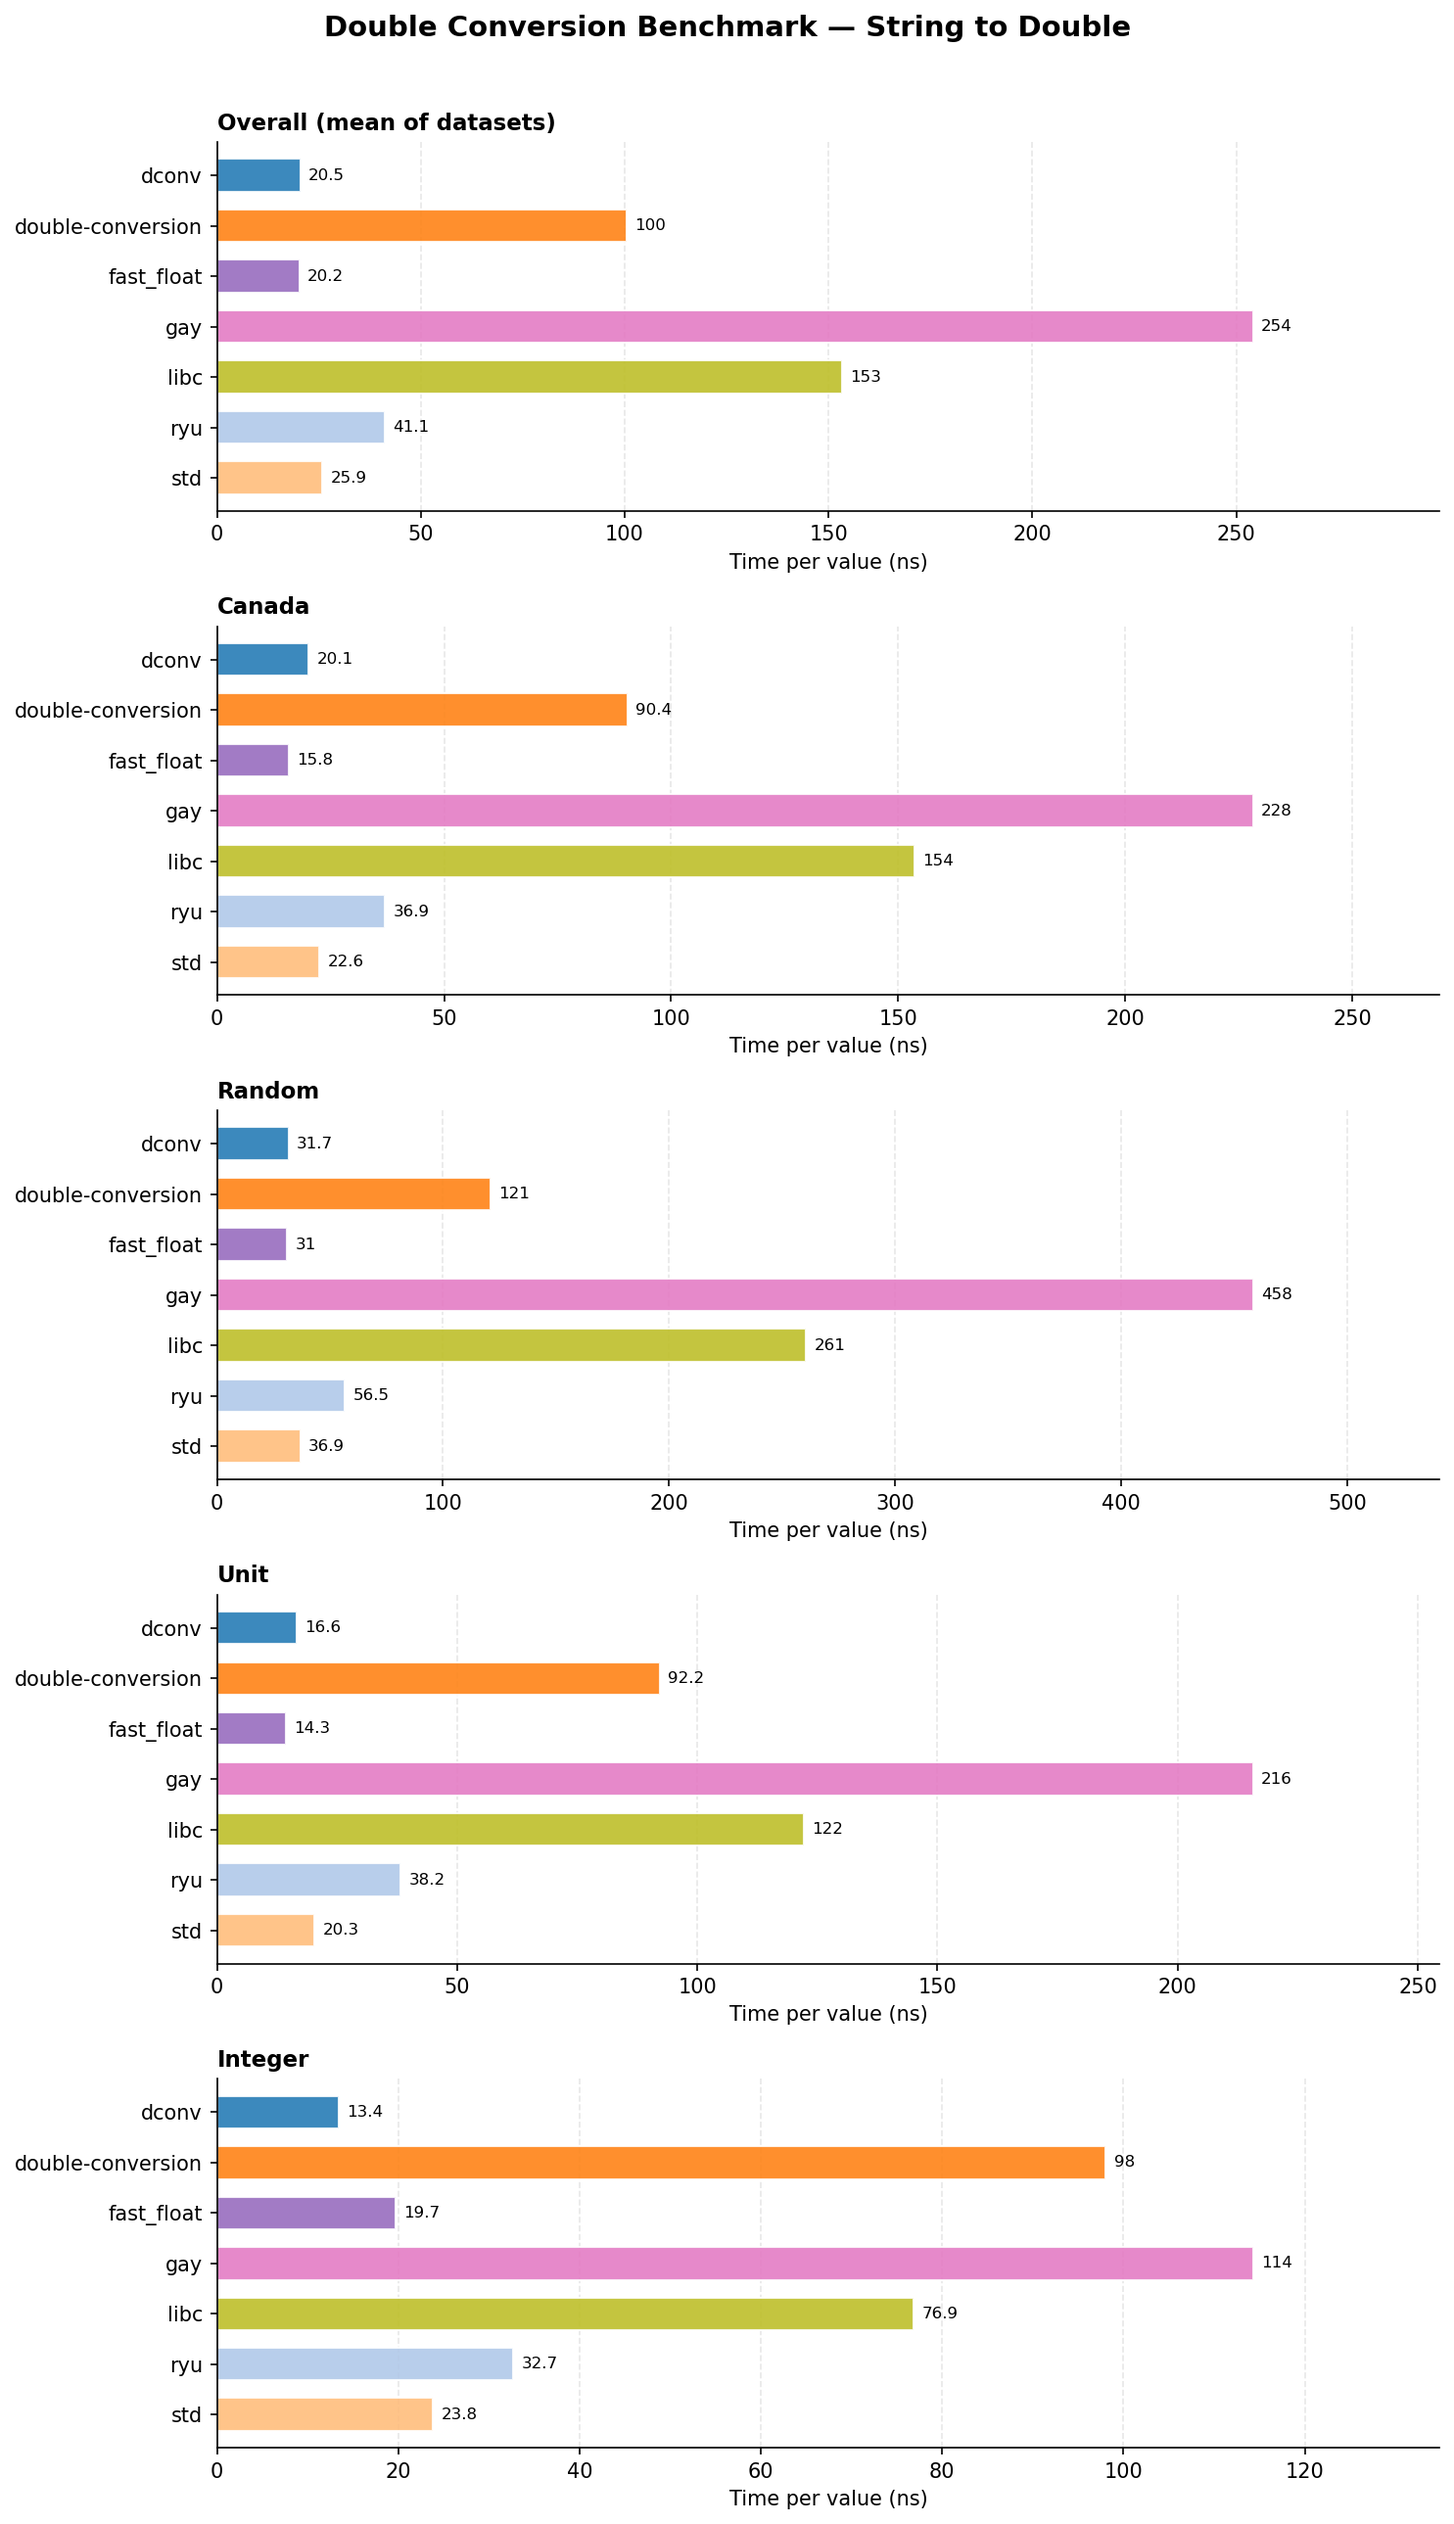
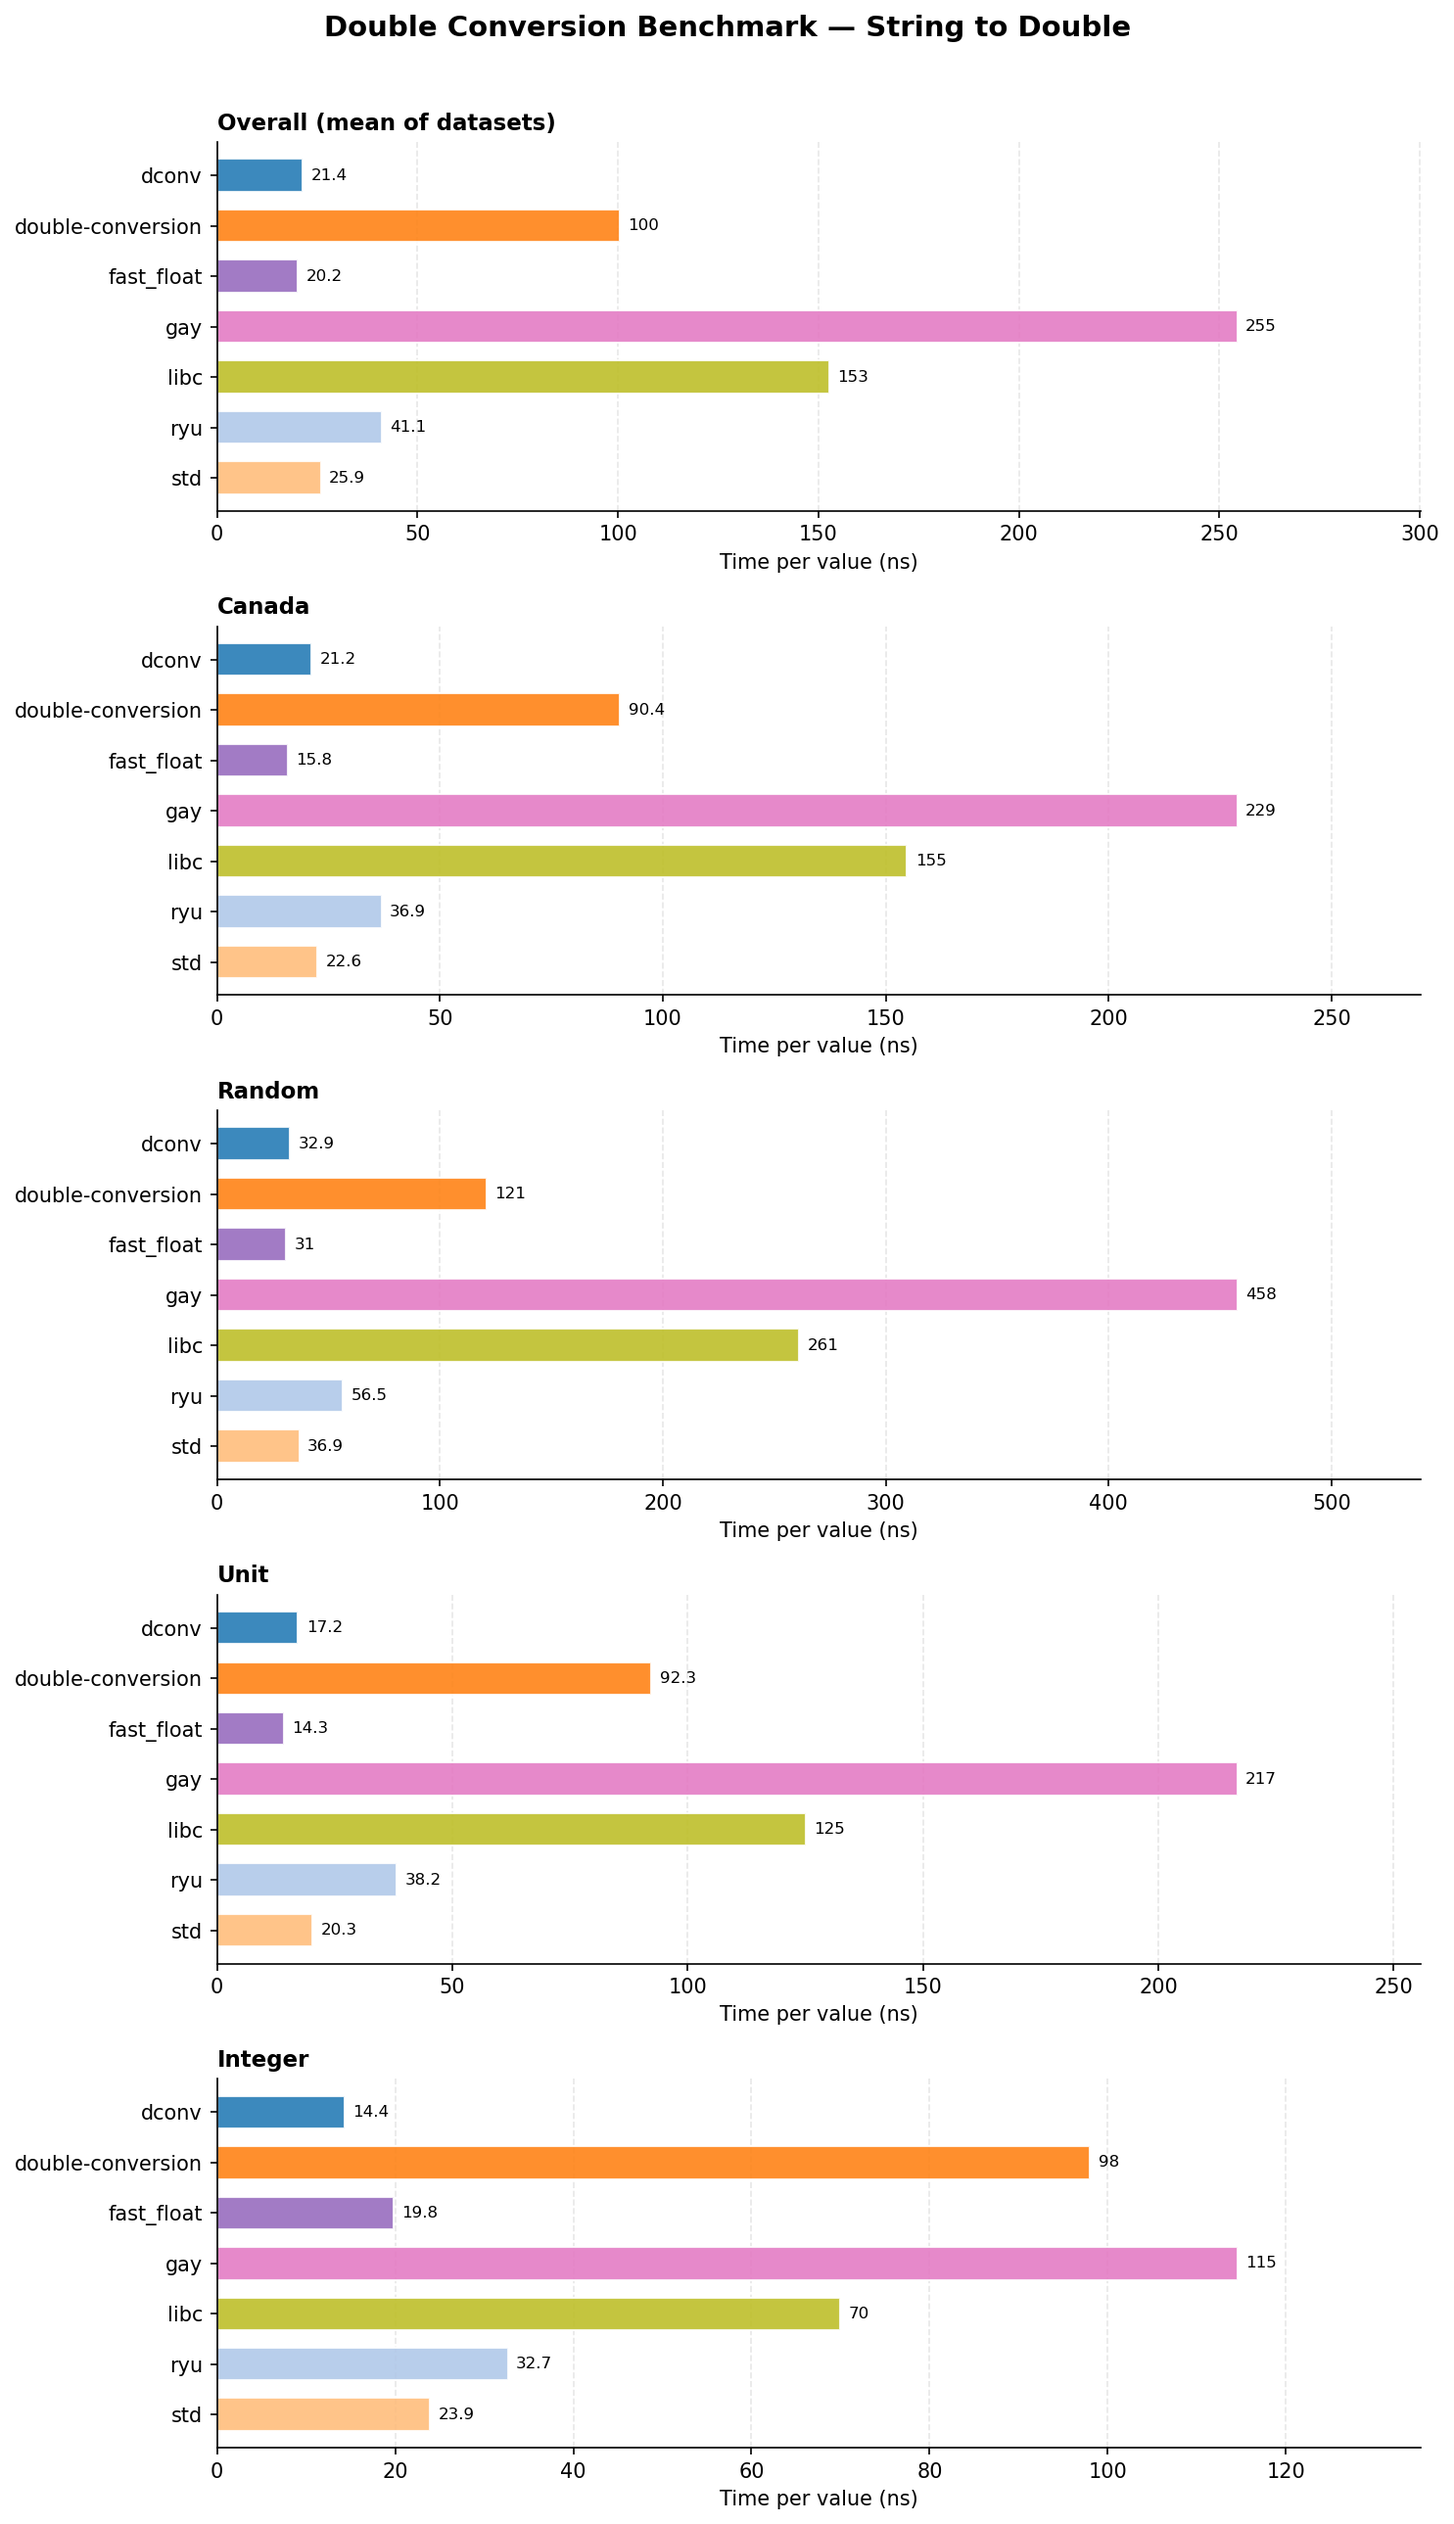
Use dconv 2.0.0

diff --git a/README.md b/README.md
@@ -24,10 +24,10 @@ Largely inspired by [dtoa-benchmark](https://github.com/miloyip/dtoa-benchmark) 
 
 | Library | Version | Dtoa | Atod | Algorithm |
 |---------|---------|:----:|:----:|-----------|
-| [dconv](https://github.com/joinframework/dconv) | v1.2.3 | ✓ | ✓ | Schubfach / Eisel-Lemire with strtod fallback |
-| [dconv](https://github.com/joinframework/dconv) grisu | v1.2.3 | ✓ | | Grisu |
-| [dconv](https://github.com/joinframework/dconv) grisu2 | v1.2.3 | ✓ | | Grisu2 |
-| [dconv](https://github.com/joinframework/dconv) grisu3 | v1.2.3 | ✓ | | Grisu3 with `std::to_chars` fallback |
+| [dconv](https://github.com/joinframework/dconv) | v2.0.0 | ✓ | ✓ | Schubfach / Eisel-Lemire with strtod fallback |
+| [dconv](https://github.com/joinframework/dconv) grisu | v2.0.0 | ✓ | | Grisu |
+| [dconv](https://github.com/joinframework/dconv) grisu2 | v2.0.0 | ✓ | | Grisu2 |
+| [dconv](https://github.com/joinframework/dconv) grisu3 | v2.0.0 | ✓ | | Grisu3 with `std::to_chars` fallback |
 | [double-conversion](https://github.com/google/double-conversion) | v3.4.0 | ✓ | ✓ | Grisu3 with bignum fallback / Clinger with bignum fallback |
 | [Drachennest](https://github.com/abolz/Drachennest) grisu3 | e6714a3 | ✓ | | Grisu3 with Dragon4 fallback |
 | [Drachennest](https://github.com/abolz/Drachennest) schubfach | e6714a3 | ✓ | | Schubfach |
@@ -191,11 +191,11 @@ All figures below come from a single run on this machine (3 repetitions, each in
 | Frequency | 3700 MHz, `performance` governor, boost disabled |
 | Caches | L1d 8 × 32 KiB, L2 8 × 512 KiB, L3 2 × 8 MiB |
 | RAM | 16 GiB |
-| OS | Ubuntu 26.04.1 LTS, kernel 7.0.0-38-generic |
+| OS | Ubuntu 26.04.1 LTS, kernel 7.0.0-43-generic |
 | Toolchain | GCC 15.2.0, glibc 2.43, libstdc++ runtime from GCC 16 (6.0.35), CMake 4.2.3 |
 | Compile flags | `-O3 -DNDEBUG -march=native -std=c++20` |
 | Pinning | `taskset -c 2` (physical core, SMT sibling 10) |
-| Conditions | idle machine, 3 repetitions, run started once the CPU was back to its rated clock; spread across repetitions below 2% for 429 of 462 benchmarks and below 5% for 449; outliers are Milo Yip's Grisu2 (up to 14% on `Integer`) and dconv on short `Digits` datasets (up to 8%) |
+| Conditions | idle machine, 3 repetitions, run started once the CPU was back to its rated clock; spread across repetitions below 2% for 422 of 462 benchmarks and below 5% for 442; outliers are dconv Grisu3 (up to 13% on `Canada`), dconv on the `Digits04` to `Digits08` datasets (up to 11%), `std::to_chars` and Milo Yip's Grisu2 (up to 10%) |
 
 ## Results
 
@@ -207,7 +207,7 @@ Measured on a development machine. Re-run `scripts/run_bench.sh` to reproduce on
 
 ![Dtoa by digits](plots/digits_dtoa.png)
 
-**Dragonbox** leads at 25.1 ns per value, followed by **dconv** (28.9 ns, Schubfach), **Drachennest Schubfach** (29.3 ns) and **Ryu** (32.2 ns): these recent algorithms compute the shortest decimal significand with a few 128-bit multiplications, then print it, and their time barely depends on the number of digits (29.4 ns for one digit and 39.1 ns for seventeen with dconv). dconv is the fastest on integers (15.1 ns). **dconv Grisu** (34.1 ns) prints up to 18 digits without looking for the shortest output. **fmt** (41.2 ns) uses Dragonbox but pays for its formatting layer. **Drachennest Grisu3** (46.3 ns) is fast on integers (17.8 ns) but slower on random exponents. **std** (`std::to_chars`, 51.6 ns), **Tejú Jaguá** (56.6 ns), **dconv Grisu2** (59.6 ns) and **dconv Grisu3** (63.1 ns) form the next group; Grisu2 and Grisu3 generate the digits one by one (35 ns for one digit, about 70 ns for seventeen). **Milo Yip**'s Grisu2 (74.6 ns) and **double-conversion** (92.9 ns) follow. **libc** (`snprintf`, 422 ns) and **David Gay**'s `dtoa.c` (766 ns, up to 1.5 µs on random exponents, bignum arithmetic) are an order of magnitude slower.
+**Dragonbox** leads at 25.1 ns per value, followed by **dconv** (28.9 ns, Schubfach), **Drachennest Schubfach** (29.3 ns) and **Ryu** (32.2 ns): these recent algorithms compute the shortest decimal significand with a few 128-bit multiplications, then print it, and their time barely depends on the number of digits (29.4 ns for one digit and 38.2 ns for seventeen with dconv). dconv is the fastest on integers (15.1 ns). **dconv Grisu** (33.7 ns) prints up to 18 digits without looking for the shortest output. **fmt** (41.8 ns) uses Dragonbox but pays for its formatting layer. **Drachennest Grisu3** (46.3 ns) is fast on integers (17.6 ns) but slower on random exponents. **std** (`std::to_chars`, 51.7 ns), **dconv Grisu2** (58.8 ns), **dconv Grisu3** (60.8 ns) and **Tejú Jaguá** (63.5 ns) form the next group; Grisu2 and Grisu3 generate the digits one by one (35 ns for one digit, about 70 ns for seventeen). **Milo Yip**'s Grisu2 (73.5 ns) and **double-conversion** (91.8 ns) follow. **libc** (`snprintf`, 424 ns) and **David Gay**'s `dtoa.c` (774 ns, up to 1.5 µs on random exponents, bignum arithmetic) are an order of magnitude slower.
 
 Tejú Jaguá only provides the decimal significand and exponent: its figure includes the formatting written in its adapter, a plain division loop, and is likely pessimistic for the algorithm itself.
 
@@ -217,7 +217,9 @@ Tejú Jaguá only provides the decimal significand and exponent: its figure incl
 
 ![Atod by digits](plots/digits_atod.png)
 
-**fast_float** (20.2 ns per value) and **dconv** (20.5 ns) lead, both using the Eisel-Lemire algorithm: dconv is faster on integers (13.4 ns against 19.7 ns), fast_float on `Canada` (15.8 ns against 20.1 ns) and `Unit` (14.3 ns against 16.6 ns). **std** (`std::from_chars`, 25.9 ns, built on fast_float in libstdc++) follows within 30%, then **Ryu** (41.1 ns). **double-conversion** (100.4 ns) is five times slower, then **libc** (`strtod`, 153 ns) and **David Gay**'s `strtod` (254 ns).
+**fast_float** (20.2 ns per value) and **dconv** (21.4 ns) lead, both using the Eisel-Lemire algorithm: dconv is faster on integers (14.4 ns against 19.8 ns), fast_float on `Canada` (15.8 ns against 21.2 ns) and `Unit` (14.3 ns against 17.2 ns). **std** (`std::from_chars`, 25.9 ns, built on fast_float in libstdc++) follows within 30%, then **Ryu** (41.1 ns). **double-conversion** (100.4 ns) is five times slower, then **libc** (`strtod`, 153 ns) and **David Gay**'s `strtod` (255 ns).
+
+dconv is measured in its default general format (`AtodMode::General`), which accepts what `std::from_chars` and fast_float accept by default; its `AtodMode::Json` grammar is not measured here.
 
 ### Conformance
 
